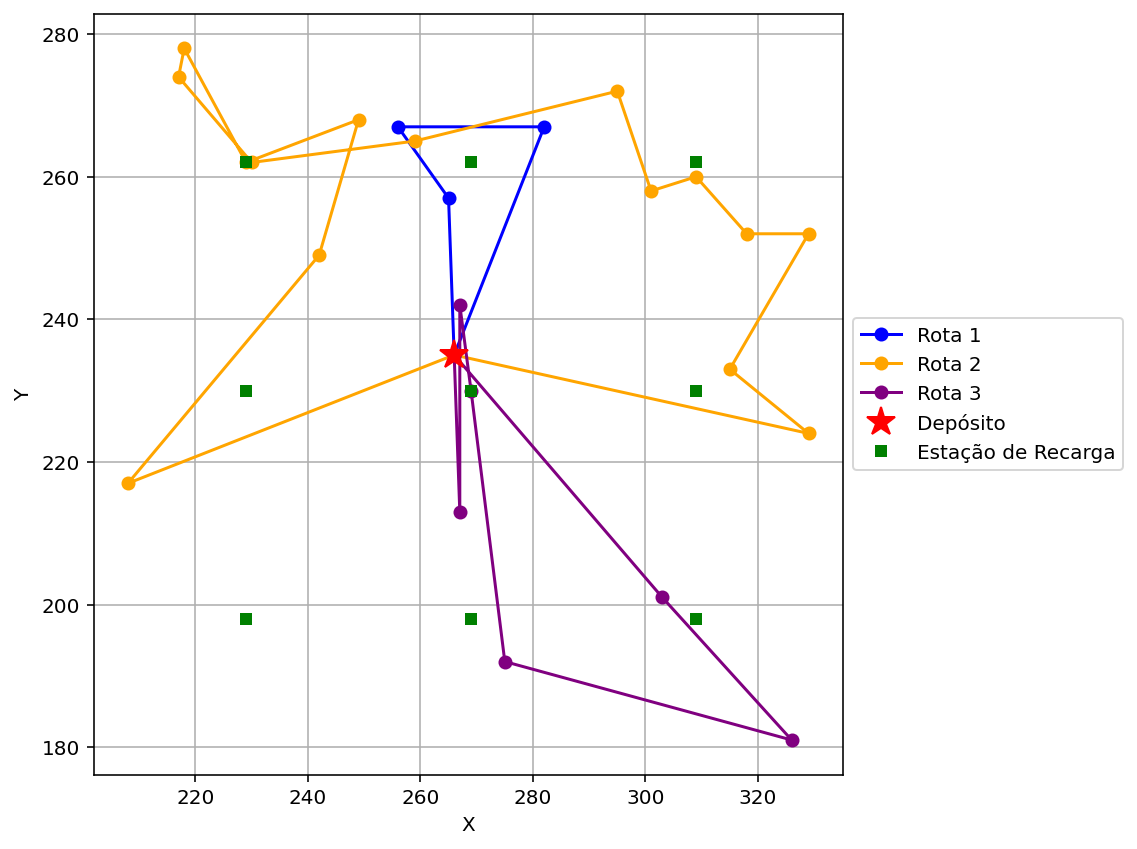
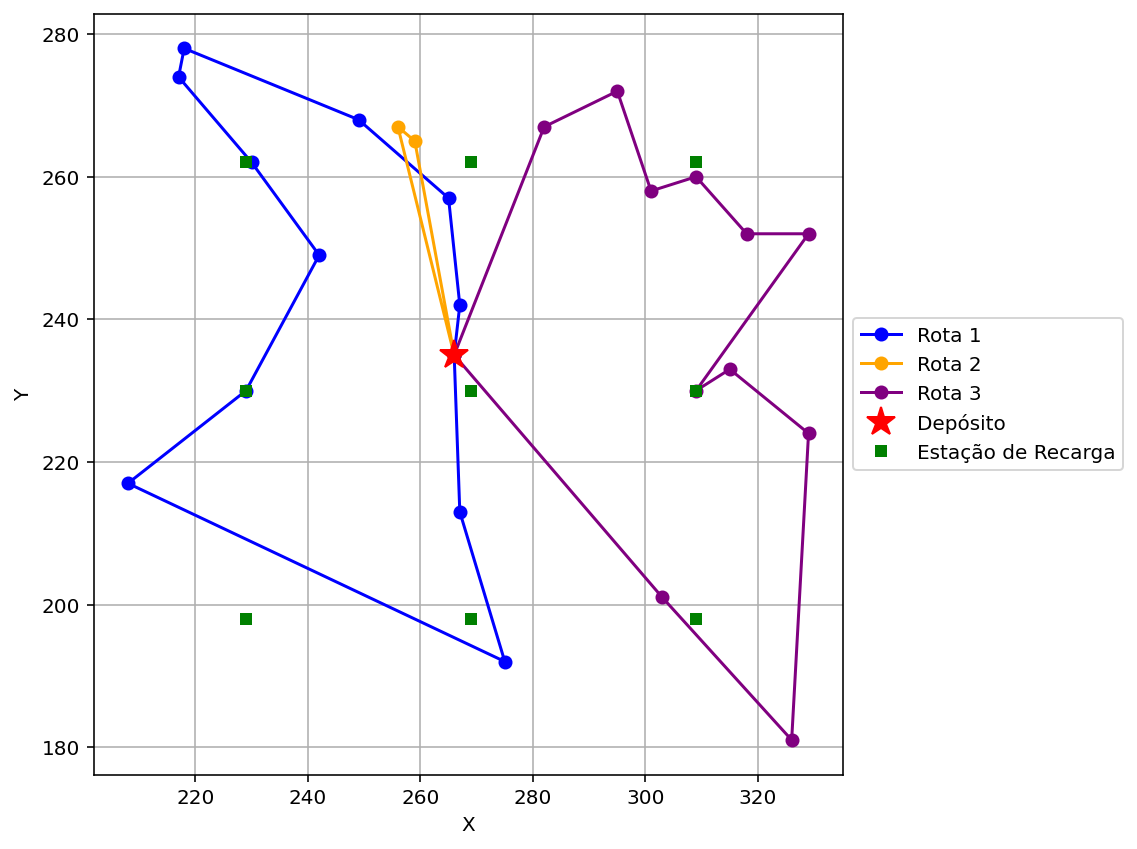
correção na função reconstruir rota

diff --git a/Trabalho 3/AG.py b/Trabalho 3/AG.py
@@ -110,9 +110,10 @@ def distancia(a, b):
 def avaliar(ro, dados):
     """
     Avalia uma solução (rota) somando distâncias e penalizando violações:
-    - capacidade máxima do veículo
-    - energia máxima e consumo
-    - número máximo de veículos permitidos
+    - Capacidade máxima do veículo
+    - Energia máxima e consumo
+    - Número mínimo de veículos permitidos
+    - Penalização severa se o veículo ficar sem energia viável
     Retorna a distância total (fitness) da solução.
     """
     coords = dados['coordenadas']
@@ -124,81 +125,90 @@ def avaliar(ro, dados):
     estacoes = dados['estacoes']
     num_veiculos = dados['numero_veiculos']
 
-    total_dist = 0  # acumulador da distância total
-    carga = 0  # carga atual do veículo
-    energia = energia_max  # energia disponível inicialmente
-    atual = deposito  # nó atual, inicia no depósito
-    rotas = 1  # conta número de rotas usadas (veículos)
+    total_dist = 0
+    carga = 0
+    energia = energia_max
+    atual = deposito
+    rotas = 1
 
     for cliente in ro:
         demanda = demandas[cliente]
         dist = distancia(coords[atual], coords[cliente])
-        energia_necessaria = dist * consumo  # energia consumida para ir até o cliente
+        energia_necessaria = dist * consumo
 
-        # Se a carga excede a capacidade, volta para depósito e reinicia
+        # Se carga excede capacidade, tenta voltar ao depósito
         if carga + demanda > capacidade:
-            total_dist += distancia(coords[atual], coords[deposito])
+            dist_volta = distancia(coords[atual], coords[deposito])
+            energia_volta = dist_volta * consumo
+            if energia < energia_volta:
+                return 1e10  # penalização severa: não consegue retornar ao depósito
+            total_dist += dist_volta
             atual = deposito
             carga = 0
             energia = energia_max
             rotas += 1
+            dist = distancia(coords[atual], coords[cliente])
+            energia_necessaria = dist * consumo
 
-        # Se não tem energia suficiente para o cliente, tenta usar estação de recarga
-        elif energia < energia_necessaria:
+        # Se energia insuficiente para ir direto ao cliente
+        if energia < energia_necessaria:
             estacao_escolhida = None
             menor_dist = float('inf')
+
             for est in estacoes:
                 dist_para_est = distancia(coords[atual], coords[est])
-                dist_est_para_cli = distancia(coords[est], coords[cliente])
-                energia_necessaria_para_est = dist_para_est * consumo
-                energia_necessaria_para_cli = dist_est_para_cli * consumo
+                energia_ate_est = dist_para_est * consumo
 
-                # Verifica se é possível ir até estação e depois ao cliente
-                if energia >= energia_necessaria_para_est and energia_max >= energia_necessaria_para_cli:
-                    rota_com_estacao = dist_para_est + dist_est_para_cli
-                    if rota_com_estacao < menor_dist:
-                        menor_dist = rota_com_estacao
+                dist_est_para_cli = distancia(coords[est], coords[cliente])
+                energia_est_para_cli = dist_est_para_cli * consumo
+
+                if energia >= energia_ate_est and energia_max >= energia_est_para_cli:
+                    dist_total = dist_para_est + dist_est_para_cli
+                    if dist_total < menor_dist:
+                        menor_dist = dist_total
                         estacao_escolhida = est
 
-            # Se encontrou estação viável, vai até ela antes do cliente
             if estacao_escolhida is not None:
+                # Vai até estação e depois ao cliente
                 total_dist += distancia(coords[atual], coords[estacao_escolhida])
                 energia = energia_max
                 atual = estacao_escolhida
                 dist = distancia(coords[atual], coords[cliente])
                 energia_necessaria = dist * consumo
-                energia -= energia_necessaria
-                carga += demanda
-                total_dist += dist
-                atual = cliente
             else:
-                # Se não, retorna ao depósito para recarregar e reinicia rota
-                total_dist += distancia(coords[atual], coords[deposito])
+                # Tenta retornar ao depósito
+                dist_volta = distancia(coords[atual], coords[deposito])
+                energia_volta = dist_volta * consumo
+                if energia < energia_volta:
+                    return 1e10  # penalização severa: veículo ficaria preso
+                total_dist += dist_volta
                 atual = deposito
                 carga = 0
                 energia = energia_max
                 rotas += 1
                 dist = distancia(coords[atual], coords[cliente])
                 energia_necessaria = dist * consumo
-                energia -= energia_necessaria
-                carga += demanda
-                total_dist += dist
-                atual = cliente
-        else:
-            # Caso normal: segue para o cliente normalmente
-            carga += demanda
-            energia -= energia_necessaria
-            total_dist += dist
-            atual = cliente
 
-    # Volta final ao depósito
-    total_dist += distancia(coords[atual], coords[deposito])
+        # Move para o cliente
+        energia -= energia_necessaria
+        carga += demanda
+        total_dist += dist
+        atual = cliente
 
-    # Penaliza se número de rotas (veículos) usadas for menor que o permitido
+    # Retorno final ao depósito
+    dist_volta = distancia(coords[atual], coords[deposito])
+    energia_volta = dist_volta * consumo
+    if energia < energia_volta:
+        return 1e10  # penalização severa: não consegue retornar ao depósito
+
+    total_dist += dist_volta
+
+    # Penalização se número de veículos usados for menor que o mínimo exigido
     if rotas < num_veiculos:
         total_dist += 1e6 * (num_veiculos - rotas)
 
     return total_dist
+
 
 # =========================================
 # Gera um indivíduo (rota) aleatória inicial
@@ -324,7 +334,7 @@ def reconstruir_rota(ro, dados):
     deposito = dados['deposito']
     estacoes = dados['estacoes']
 
-    rota_completa = [deposito]  # inicia em depósito
+    rota_completa = [deposito]  # inicia no depósito
     carga = 0
     energia = energia_max
     atual = deposito
@@ -334,42 +344,75 @@ def reconstruir_rota(ro, dados):
         dist = distancia(coords[atual], coords[cliente])
         energia_necessaria = dist * consumo
 
-        # Se extrapola capacidade, volta ao depósito
+        # Se excede a capacidade, volta ao depósito
         if carga + demanda > capacidade:
+            dist_volta = distancia(coords[atual], coords[deposito])
+            energia_volta = dist_volta * consumo
+
+            if energia < energia_volta:
+                # veículo ficaria preso sem conseguir retornar
+                return [deposito]  # retorna rota inválida mínima
             rota_completa.append(deposito)
             atual = deposito
             carga = 0
             energia = energia_max
+            dist = distancia(coords[atual], coords[cliente])
+            energia_necessaria = dist * consumo
 
-        # Se energia insuficiente para ir direto, tenta estação
-        elif energia < energia_necessaria:
+        # Se não há energia para ir direto ao cliente
+        if energia < energia_necessaria:
             estacao_escolhida = None
             menor_dist = float('inf')
+
             for est in estacoes:
                 dist_para_est = distancia(coords[atual], coords[est])
-                dist_est_para_cli = distancia(coords[est], coords[cliente])
-                energia_necessaria_para_est = dist_para_est * consumo
-                energia_necessaria_para_cli = dist_est_para_cli * consumo
+                energia_ate_est = dist_para_est * consumo
 
-                # Verifica se pode ir à estação e depois ao cliente
-                if energia >= energia_necessaria_para_est and energia_max >= energia_necessaria_para_cli:
-                    rota_com_estacao = dist_para_est + dist_est_para_cli
-                    if rota_com_estacao < menor_dist:
-                        menor_dist = rota_com_estacao
+                dist_est_para_cli = distancia(coords[est], coords[cliente])
+                energia_est_para_cli = dist_est_para_cli * consumo
+
+                if energia >= energia_ate_est and energia_max >= energia_est_para_cli:
+                    total_dist_est = dist_para_est + dist_est_para_cli
+                    if total_dist_est < menor_dist:
+                        menor_dist = total_dist_est
                         estacao_escolhida = est
 
             if estacao_escolhida is not None:
+                # Vai para estação
                 rota_completa.append(estacao_escolhida)
                 energia = energia_max
                 atual = estacao_escolhida
+                dist = distancia(coords[atual], coords[cliente])
+                energia_necessaria = dist * consumo
+            else:
+                # Verifica se consegue voltar ao depósito
+                dist_volta = distancia(coords[atual], coords[deposito])
+                energia_volta = dist_volta * consumo
+                if energia < energia_volta:
+                    return [deposito]  # rota inválida
+                rota_completa.append(deposito)
+                atual = deposito
+                carga = 0
+                energia = energia_max
+                dist = distancia(coords[atual], coords[cliente])
+                energia_necessaria = dist * consumo
 
+        # Vai para cliente
         rota_completa.append(cliente)
         carga += demanda
         energia -= energia_necessaria
         atual = cliente
 
-    rota_completa.append(deposito)  # finaliza em depósito
+    # Finaliza rota no depósito
+    dist_final = distancia(coords[atual], coords[deposito])
+    energia_final = dist_final * consumo
+
+    if energia < energia_final:
+        return [deposito]  # rota inválida
+    rota_completa.append(deposito)
+
     return rota_completa
+
 
 def plotar_rota(rota, dados, nome_arquivo):
     """

diff --git a/Trabalho 3/main.py b/Trabalho 3/main.py
@@ -11,7 +11,7 @@ from AG import ler_arquivo_evrp, evoluir, plotar_rota, calcular_cargas_por_rota
 NUM_EXECUCOES = 20  
 
 # Lista com valores de elitismo para testar (pode ajustar)
-num_elitistas = [0, 2]
+num_elitistas = [2]
 
 for elitistas in num_elitistas:
 
@@ -22,7 +22,7 @@ for elitistas in num_elitistas:
         'SEMENTE_BASE': 42,
         'TORNEIO_K': 7,
         'NUM_ELITISTAS': elitistas,
-        'TIPO_CROSSOVER': 'CX', # OX ou CX
+        'TIPO_CROSSOVER': 'OX', # OX ou CX
     }
 
     caminho = './evrp-benchmark-set'
